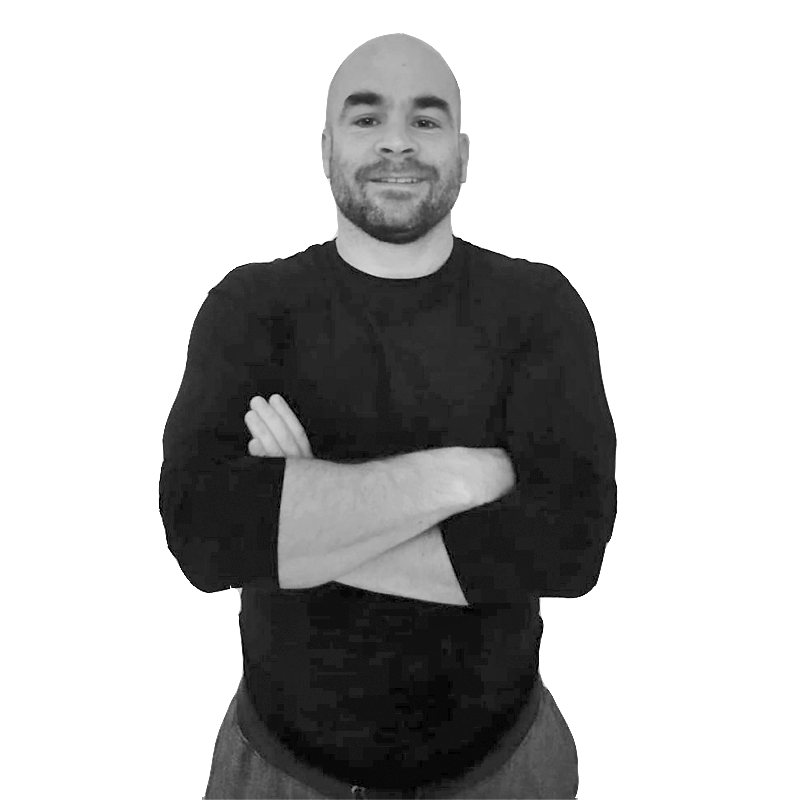
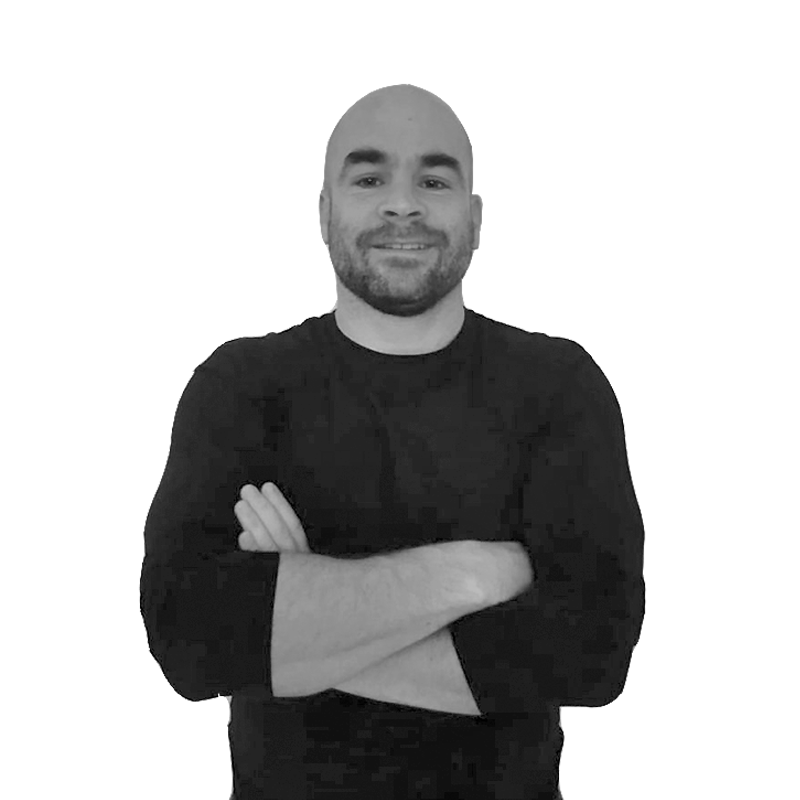
Photos and little style changes

Changed region(s): [[0.1562, 0.4688, 0.8125, 1.0], [0.2188, 0.0312, 0.75, 0.5]]

diff --git a/index.html b/index.html
@@ -104,19 +104,20 @@
               </div>
             </div>
           </div>
+          
           <div class="col-lg-5 mb-6 portfolio-item">
             <div class="card h-100">
-              <span><img class="card-img-top-centralized" src="assets/AndreWibi.png" alt=""></span>
+              <span><img class="card-img-top-centralized" src="assets/Andre.png" alt=""></span>
               <div class="card-body">
-                <p class="card-text"><b>Wibke - Webteam:</b> Wibke has sense for details and design, besides all kindes of developing tasks, she can visualize everything. Although she is a blockchain newcomer, she is excited to support a great project like Telos.</p>
+                <p class="card-text"><b>Andre - Development & Webteam:</b> Many years of experience in any kind of web and mobile development makes Andre our lead programmer and head of the software team. Currently he is involved in the development of an open source wallet and TelosToolkit to make it easier to manage your TLOS. </p>
               </div>
             </div>
           </div>
           <div class="col-lg-5 mb-6 portfolio-item">
             <div class="card h-100">
-              <span><img class="card-img-top-centralized" src="assets/AndreWibi.png" alt=""></span>
+              <span><img class="card-img-top-centralized" src="assets/Wibke.png" alt=""></span>
               <div class="card-body">
-                <p class="card-text"><b>Andre - Webteam:</b> Many years of experience in any kind of development makes Andre our lead programmer and head of the software team...</p>
+                <p class="card-text"><b>Wibke - Content & Webteam:</b> Wibke has a sense for details and design, besides all kinds of developing tasks, she can visualize everything. Although she is a blockchain newcomer, she is excited to support a great project like Telos.</p>
               </div>
             </div>
           </div>
@@ -134,7 +135,7 @@
             <div class="card h-100">
               <span><img class="card-img-top-centralized" src="assets/Ralf.png" alt=""></span>
               <div class="card-body">
-                <p class="card-text"><b>Ralf - Advisor:</b> With over 20 years experience of IT in the Banking and Insurance industry Ralf has gained vast experience in architecting, hosting and managing mission-critical SaaS systems.</br> Ralf is Head of Block Production for GenerEOS on the EOS Mainnet and is advising TelosGermany on any technical aspects to help with a smooth launch of the Telos blockchain.</p>
+                <p class="card-text"><b>Ralf - Advisor:</b> With over 20 years experience of IT in the banking and insurance industry Ralf has gained vast experience in architecting, hosting and managing mission-critical SaaS systems.</br> Ralf is Head of Block Production for GenerEOS on the EOS Mainnet and is advising TelosGermany on any technical aspects to help with a smooth launch of the Telos blockchain.</p>
               </div>
             </div>
           </div>
